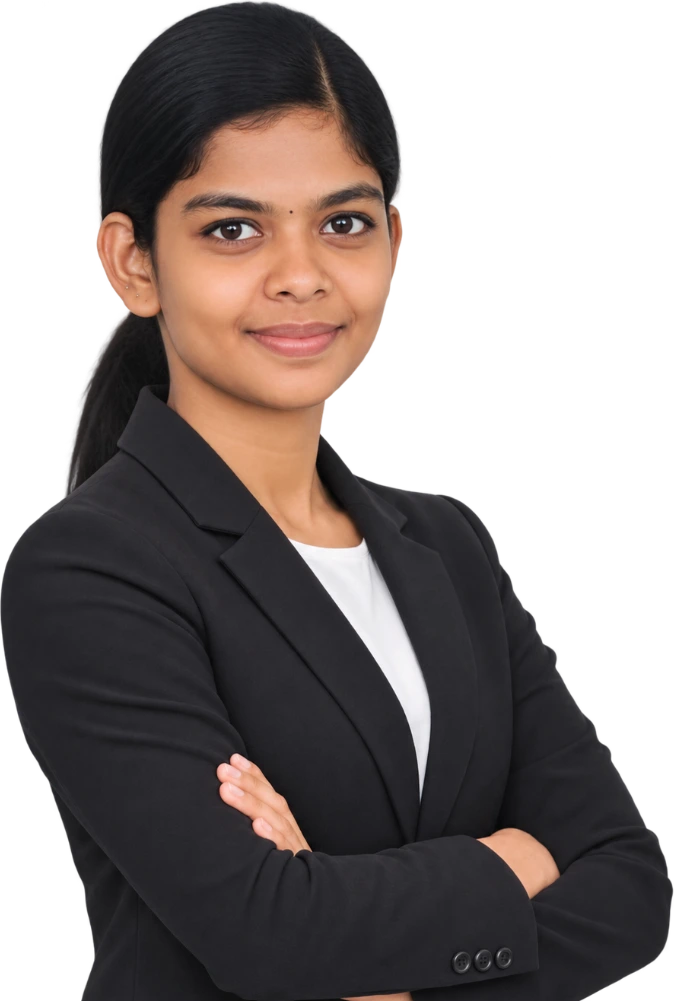
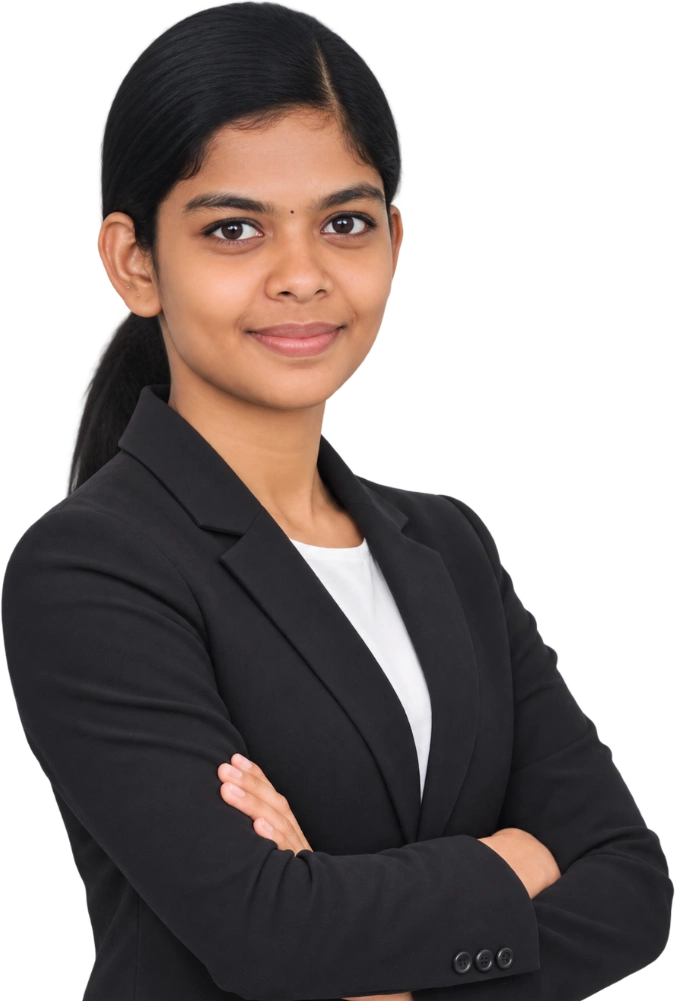
feat(about): update Slide 1 hero apparel trio (transparent bg) and update HR, E-commerce, and Full Stack Developer team cutouts

diff --git a/src/pages/About/components/AboutHero.tsx b/src/pages/About/components/AboutHero.tsx
@@ -1,7 +1,6 @@
 import React, { useRef, useState, useEffect, useCallback } from 'react';
 import { motion, AnimatePresence, useScroll, useReducedMotion } from 'framer-motion';
 import { ArrowRight, ChevronLeft, ChevronRight } from 'lucide-react';
-import { ClothFoldingPolo } from './ClothFoldingPolo';
 import { FabricWave3D } from './FabricWave3D';
 import { BNIMemberSlide } from './BNIMemberSlide';
 import { PartnershipSlide, featureHighlights } from './PartnershipSlide';
@@ -195,10 +194,12 @@ export const AboutHero: React.FC<AboutHeroProps> = ({ onOpenQuote }) => {
               className="w-full h-full flex flex-col justify-center"
             >
               {/* DESKTOP T-SHIRT VISUAL */}
-              <div className="hidden lg:flex absolute right-0 bottom-[-6px] xl:bottom-[-10px] 2xl:bottom-[-12px] z-10 w-[53vw] xl:w-[55vw] max-w-[920px] xl:max-w-[1020px] 2xl:max-w-[1140px] justify-end items-end pointer-events-none">
-                <ClothFoldingPolo
-                  className="w-full h-full flex justify-end items-end"
-                  imgClassName="h-[76svh] xl:h-[80svh] 2xl:h-[83svh] max-h-[720px] xl:max-h-[800px] 2xl:max-h-[900px] w-auto max-w-none object-contain object-right-bottom"
+              <div className="hidden lg:flex absolute right-4 xl:right-8 bottom-4 xl:bottom-8 z-10 w-[44vw] xl:w-[46vw] max-w-[660px] xl:max-w-[740px] justify-end items-end pointer-events-none">
+                <img
+                  src="/assets/images/about/about-hero-apparel-trio.webp"
+                  alt="TeesZone Branded Apparel Collection - Polo, Hoodie and Sports Tee"
+                  className="w-full h-auto max-h-[72svh] xl:max-h-[76svh] object-contain object-right-bottom drop-shadow-[0_22px_40px_rgba(70,0,20,0.22)]"
+                  loading="eager"
                 />
               </div>
 
@@ -320,21 +321,17 @@ export const AboutHero: React.FC<AboutHeroProps> = ({ onOpenQuote }) => {
                     </motion.p>
                   </div>
 
-                  {/* Hero Image: Enlarged Polo T-Shirt with 4-side shaded effect (NO box appearance) */}
+                  {/* Hero Image: Transparent Apparel Trio */}
                   <motion.div
                     initial={{ opacity: 0, y: shouldReduceMotion ? 0 : 14 }}
                     animate={{ opacity: 1, y: 0 }}
                     transition={{ duration: 0.75, delay: 0.28 }}
-                    className="w-full max-w-[420px] h-[34svh] xs:h-[36svh] max-h-[330px] min-h-[220px] overflow-hidden my-1 shrink-0 flex items-center justify-center"
-                    style={{
-                      maskImage: 'radial-gradient(ellipse 92% 88% at 50% 50%, black 52%, rgba(0,0,0,0.7) 75%, transparent 100%)',
-                      WebkitMaskImage: 'radial-gradient(ellipse 92% 88% at 50% 50%, black 52%, rgba(0,0,0,0.7) 75%, transparent 100%)',
-                    }}
+                    className="w-full max-w-[400px] h-[34svh] xs:h-[36svh] max-h-[330px] min-h-[220px] my-1 shrink-0 flex items-center justify-center"
                   >
                     <img
-                      src="/assets/images/about/burgundy-polo-hd.webp"
-                      alt="TeesZone Premium Burgundy Polo T-Shirt"
-                      className="w-full h-full object-contain object-center scale-[1.28] drop-shadow-[0_18px_32px_rgba(70,0,20,0.22)]"
+                      src="/assets/images/about/about-hero-apparel-trio.webp"
+                      alt="TeesZone Branded Apparel Collection - Polo, Hoodie and Sports Tee"
+                      className="w-full h-full object-contain object-center drop-shadow-[0_18px_32px_rgba(70,0,20,0.22)]"
                       loading="eager"
                     />
                   </motion.div>
